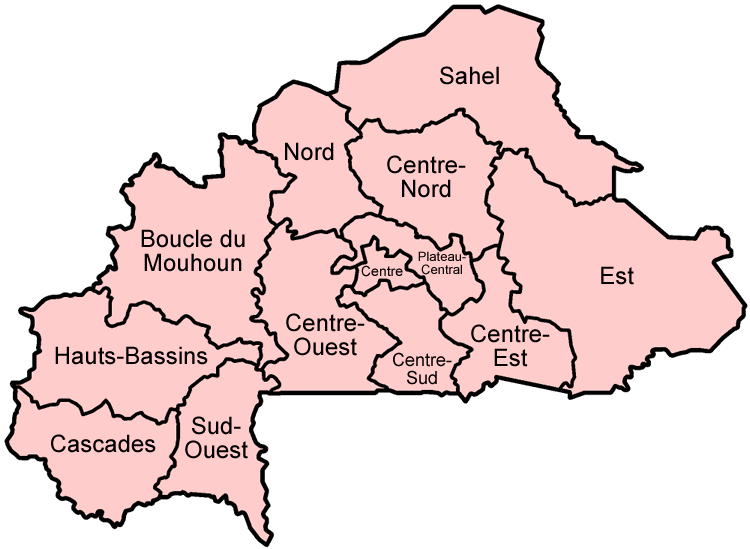
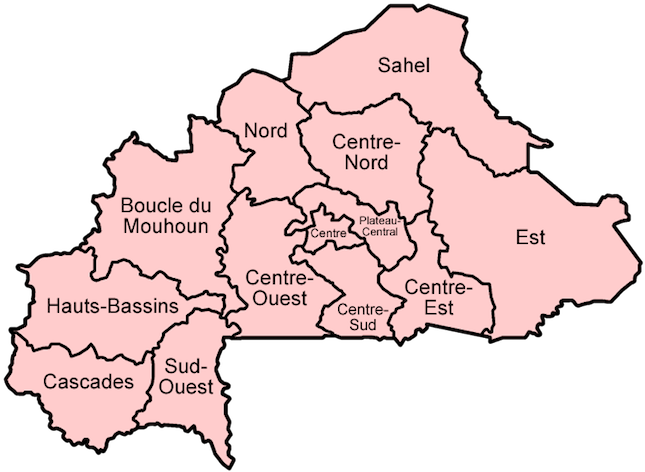
Changing the size of the map + fork deploy

diff --git a/config/deploy.rb b/config/deploy.rb
@@ -13,7 +13,7 @@ set :application, 'consul'
 set :full_app_name, deploysecret(:full_app_name)
 
 set :server_name, deploysecret(:server_name)
-set :repo_url, 'https://github.com/consul/consul.git'
+set :repo_url, 'https://github.com/Citoyen2point0/consul.git'
 
 set :revision, `git rev-parse --short #{fetch(:branch)}`.strip
 
